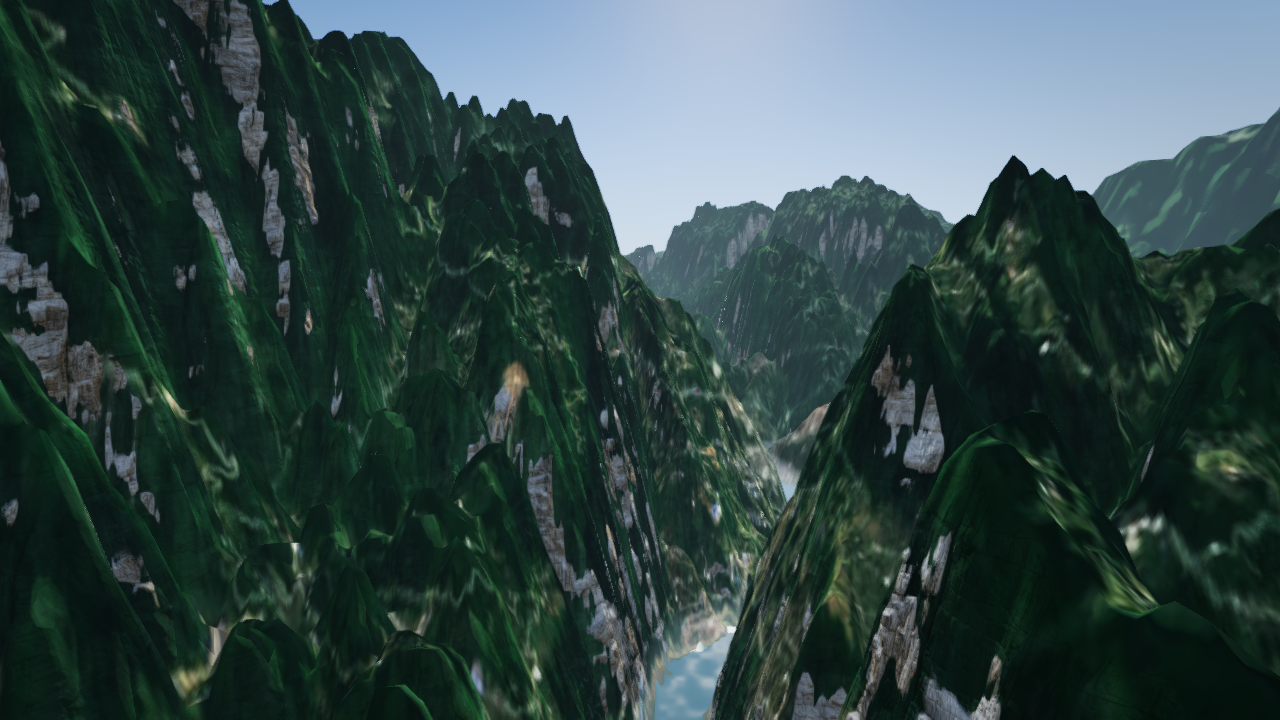
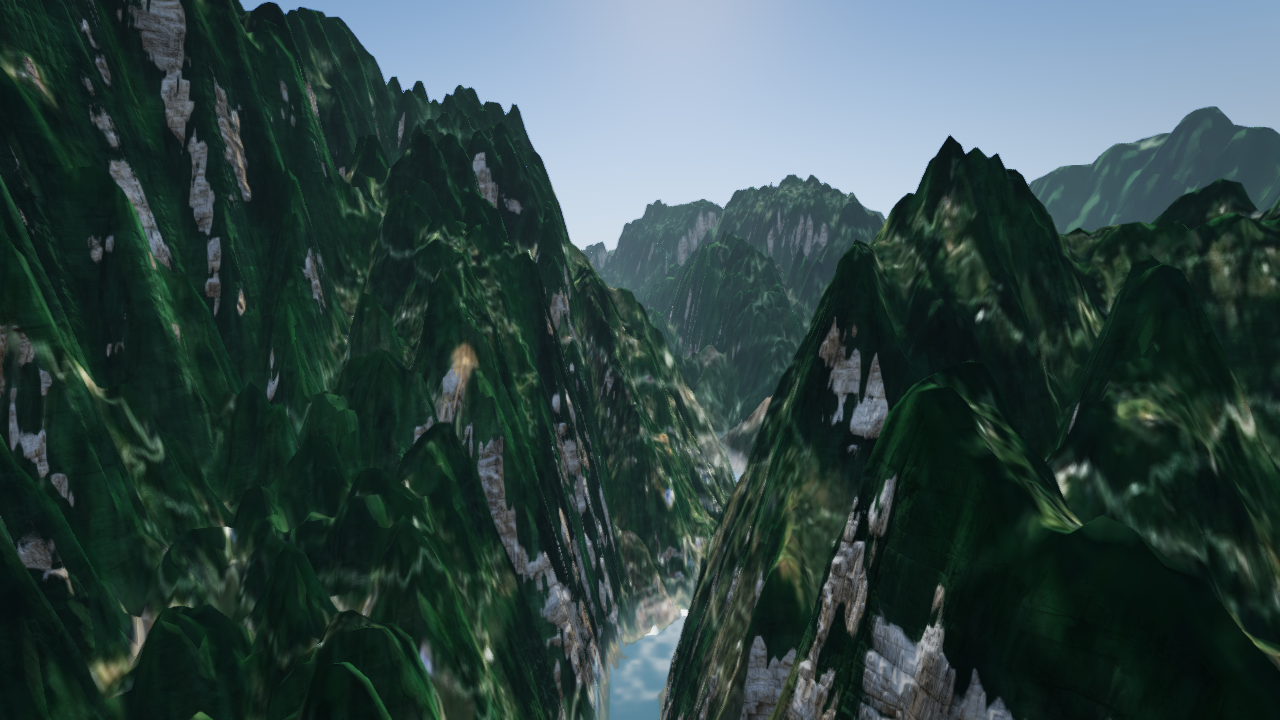
F115: the film watched as a viewer: the rail's corners turned, a chapter played again from its start
- the rail is straight lines between keys and the camera faced along the
  one it was on, so every key swung the picture through its whole corner
  in one frame (74° over Huangshan at 50 s, 81° in the Gorges, 104° into
  Tiger Leaping Gorge); railAtKm now takes the heading from the rail's
  chord over TURN_S = 5 s of authored flight, the camera staying on the
  line; no frame turns more than 0.49°
- a chapter asked for again while on screen (its segment, its number, the
  end card) restarted the clock but not the flight: goToChapter starts the
  scene again, and Watch again and __ns.jumpTo go through it
- stations and rails report cut again; the Gorges and Loess stills (60 s,
  a moved heading) taken again and the cover redrawn
- 3 tests in test/film/rail.test.ts; 523 pass, film ok

diff --git a/test/film/rail.test.ts b/test/film/rail.test.ts
@@ -6,7 +6,7 @@
 import { describe, expect, it } from "vitest";
 import { DEFAULT_RAIL, RailFlight } from "../../engine/src/film/rail.js";
 import { pathFrom } from "../../engine/src/film/path.js";
-import type { BuiltRail } from "../../engine/src/film/scene.js";
+import { TURN_S, railAtKm, type BuiltRail } from "../../engine/src/film/scene.js";
 
 /** 100 km due east at 60 km/min, which is a kilometre a second. */
 function eastward(): BuiltRail {
@@ -17,7 +17,47 @@ function eastward(): BuiltRail {
   return { path: pathFrom(keys), keys };
 }
 
+/** 50 km east, then 50 km north, at 60 km/min: a right angle at the 50th second. */
+function corner(): BuiltRail {
+  const keys = [
+    { eastM: 0, northM: 0, aboveGroundM: 300, kmPerMin: 60, pitchDeg: 6 },
+    { eastM: 50_000, northM: 0, aboveGroundM: 300, kmPerMin: 60, pitchDeg: 6 },
+    { eastM: 50_000, northM: 50_000, aboveGroundM: 300, kmPerMin: 60, pitchDeg: 6 },
+  ];
+  return { path: pathFrom(keys), keys };
+}
+
 const idle = { speed: 0, heading: 0, auto: false };
+
+describe("the rail's heading", () => {
+  it("is the line's own on a straight", () => {
+    const rail = corner();
+    expect(railAtKm(rail, 0).headingRad).toBeCloseTo(Math.PI / 2, 9);
+    expect(railAtKm(rail, 50 - TURN_S / 2 - 0.1).headingRad).toBeCloseTo(Math.PI / 2, 9);
+    expect(railAtKm(rail, 50 + TURN_S / 2 + 0.1).headingRad).toBeCloseTo(0, 9);
+    expect(railAtKm(rail, 100).headingRad).toBeCloseTo(0, 9);
+  });
+
+  it("turns through a corner over the turn's seconds, never in one frame", () => {
+    const rail = corner();
+    // Halfway round at the key itself.
+    expect(railAtKm(rail, 50).headingRad).toBeCloseTo(Math.PI / 4, 9);
+    // A frame at 60 fps is 1/60 km here; no frame turns more than a degree.
+    let before = railAtKm(rail, 40).headingRad;
+    for (let km = 40; km <= 60; km += 1 / 60) {
+      const h = railAtKm(rail, km).headingRad;
+      expect(Math.abs(h - before)).toBeLessThan(Math.PI / 180);
+      before = h;
+    }
+  });
+
+  it("keeps the camera on the line: only the heading turns", () => {
+    const rail = corner();
+    const at = railAtKm(rail, 49.5);
+    expect(at.eastM).toBeCloseTo(49_500, 6);
+    expect(at.northM).toBeCloseTo(0, 6);
+  });
+});
 
 function run(flight: RailFlight, input: typeof idle, seconds: number, step = 1 / 60) {
   let state = flight.state();

diff --git a/engine/src/film/scene.ts b/engine/src/film/scene.ts
@@ -189,14 +189,52 @@ export interface RailFix {
   readonly pitchDeg: number;
 }
 
+/**
+ * Seconds of flight at the authored speed that a key's corner is turned
+ * through, half before the key and half after. The rail is straight lines
+ * between its keys, and a heading taken from the line it is on turned the
+ * camera through a whole corner in one frame: 74 degrees over Huangshan's
+ * cloud sea, 104 into Tiger Leaping Gorge.
+ */
+export const TURN_S = 5;
+
+/** Where the rail is `seconds` of authored flight on from `km`, or back when negative; held to its ends. */
+function kmAfter(rail: BuiltRail, km: number, seconds: number): number {
+  const { cumM } = rail.path;
+  const last = cumM.length - 1;
+  if (last < 1) return 0;
+  let m = Math.max(0, Math.min(km * 1000, cumM[last]!));
+  let i = 0;
+  while (i + 1 < last && m > cumM[i + 1]!) i++;
+  let left = Math.abs(seconds);
+  while (left > 0) {
+    const ms = ((rail.keys[i]?.kmPerMin ?? 0) * 1000) / 60;
+    if (ms <= 0) break;
+    const room = seconds > 0 ? cumM[i + 1]! - m : m - cumM[i]!;
+    const go = Math.min(room, left * ms);
+    m += seconds > 0 ? go : -go;
+    left -= go / ms;
+    if (left <= 1e-9) break;
+    if (seconds > 0 ? i + 1 >= last : i <= 0) break;
+    i += seconds > 0 ? 1 : -1;
+  }
+  return m / 1000;
+}
+
 export function railAtKm(rail: BuiltRail, km: number): RailFix {
   const at = pointAtKm(rail.path, km);
   const a = rail.keys[at.segment] ?? rail.keys[0]!;
   const b = rail.keys[at.segment + 1] ?? a;
+  // The heading is the rail's chord across the turn, from half of it
+  // behind to half ahead: the line's own on a straight, and through a
+  // corner a turn that begins before the key and ends after it.
+  const from = pointAtKm(rail.path, kmAfter(rail, km, -TURN_S / 2));
+  const to = pointAtKm(rail.path, kmAfter(rail, km, TURN_S / 2));
+  const chord = Math.hypot(to.eastM - from.eastM, to.northM - from.northM) > 1;
   return {
     eastM: at.eastM,
     northM: at.northM,
-    headingRad: at.headingRad,
+    headingRad: chord ? Math.atan2(to.eastM - from.eastM, to.northM - from.northM) : at.headingRad,
     aboveGroundM: a.aboveGroundM + at.t * (b.aboveGroundM - a.aboveGroundM),
     kmPerMin: a.kmPerMin,
     pitchDeg: a.pitchDeg + at.t * (b.pitchDeg - a.pitchDeg),

diff --git a/app/src/main.ts b/app/src/main.ts
@@ -391,11 +391,23 @@ let flight: RailFlight | null = null;
 const altitude = new AltitudeController();
 let lastState: RailState | null = null;
 
+/**
+ * Chapter `i` from its lead-in. The chapter already on screen starts over
+ * as well: the frame only starts a scene when the clock crosses into
+ * another, so without this its camera flew on from wherever it had got to
+ * (the end card's last chapter, say) under a clock back at nought.
+ */
+function goToChapter(i: number): TimelinePosition {
+  pinned = null;
+  const pos = timeline.jumpTo(i);
+  if (pos.scene === current) startScene(pos.scene);
+  return pos;
+}
+
 /** Go to chapter `i`, from its lead-in, and play. */
 function playChapter(i: number): void {
-  timeline.jumpTo(i);
+  goToChapter(i);
   timeline.paused = false;
-  pinned = null;
 }
 
 const chapters = el("chapters");
@@ -432,10 +444,7 @@ function togglePlay(): void {
   pinned = null;
 }
 el("play").addEventListener("click", togglePlay);
-el("again").addEventListener("click", () => {
-  timeline.restart();
-  timeline.paused = false;
-});
+el("again").addEventListener("click", () => playChapter(0));
 // A browser starts sound only for something the viewer does.
 for (const type of ["pointerdown", "keydown"] as const) addEventListener(type, () => soundTrack.wake());
 function toggleMute(): void {
@@ -1006,10 +1015,7 @@ if (import.meta.env.DEV) {
     state: () => lastState,
     pinned: () => pinned,
     altitude,
-    jumpTo: (i: number) => {
-      pinned = null;
-      return timeline.jumpTo(i);
-    },
+    jumpTo: goToChapter,
     rig,
     /**
      * Place the camera by hand for a still: latitude, longitude, metres

diff --git a/docs/findings.md b/docs/findings.md
@@ -3196,3 +3196,91 @@ architecture.
 
 The helper that fitted the heads checked each one turns about its pivot
 with +z as its rest forward.
+
+## F115 — The film watched as a viewer: the rail's corners turned, a chapter played again from its start, 27 September 2026
+
+**Asked.** Use the film in the browser as a viewer would, and watch for
+defects and bugs.
+
+**How it was watched.** The dev server in the desktop app's browser pane,
+1027 × 774. The whole film end to end with the cast on (seed 2357475547),
+the end card, the credits page, the keys, the chapter bar, the address's
+chapters, a phone held upright and on its side (375 × 812, 740 × 360,
+touch). An in-page logger read the clock, the caption, the cast's line,
+the camera's heading and its height over the ground, and every figure's
+place in the picture, five to ten times a second; a second one read a
+single figure every frame.
+
+**Fixed.**
+
+- *The rail turned its corners in one frame.* A rail is straight lines
+  between its keys, and the camera's heading was the heading of the line
+  it was on, so at every key the picture swung through the whole corner
+  between two frames: 74° over Huangshan's cloud sea at 50.2 s (the empty
+  sea, then the sun and a new range of peaks), 81° in the Three Gorges at
+  14.3 s, 104° into Tiger Leaping Gorge at 81.3 s, 42° over the Karst at
+  77.1 s, and 30 corners of 5° or more in the Loess's first two minutes.
+  Found by the cast: Guanyin, held in the picture through her line, slid
+  out of it and back in 0.4 s, because the camera had turned 42° in a
+  frame and the cast's frame follows it 0.8 s late. `railAtKm` now takes
+  the heading from the rail's chord across `TURN_S` = 5 s of authored
+  flight, half behind and half ahead: the line's own heading on a straight,
+  and through a corner a turn that starts 2.5 s before the key and ends
+  2.5 s after. The camera stays on the line; only where it looks turns.
+  Flown at 60 fps, no frame now turns more than 0.49° (the First Bend and
+  the Loess) and no second more than 29°; 4 s turned the First Bend's
+  corner at 36° a second, 6 s left the Loess looking more than 15° off
+  its line for 16 s. The rails report is no worse for it: ground ahead at
+  Huangshan 2 → 1% (worst 161 → 143 m), the Gorges' worst 275 → 228 m,
+  the First Bend's 10 → 0 m. The stations were cut again: at 60 s
+  Huangshan's heading moved 12.7°, the Loess's 6.1°, the Gorges' 4.6°.
+  The two stills taken at a moved heading were taken again (`npm run
+  stills three-gorges loess`, then `npm run cover`): the Gorges pans a
+  few degrees left, and the Loess about six and some 60 m higher, since
+  the altitude controller looks ahead along the new heading, so its dust
+  reads a little thicker. The Huangshan still (20 s) moves 0.6° and its
+  card (8 s) 0.9°, and are left.
+- *A chapter played again flew on from where it was.* The frame starts a
+  scene only when the clock crosses into another, so the chapter already
+  on screen, asked for again by its segment, its number or the end card's
+  list, got its title card back and a clock at nought while the camera
+  flew on: pressed at 48 s into Huangshan it was at km 72 of 89; the Wall
+  chosen from the end card came back on the Nepal side, km 168 of 272,
+  lost its `#the-wall`, and the cast of the second it left stood over the
+  title card. `goToChapter` starts the scene again when it is the one on
+  screen; the chapter keys, the bar, the end card, Watch again and
+  `__ns.jumpTo` all go through it.
+
+**Seen and left.**
+
+- The credits page says both "No sound is licensed yet" and, from
+  `NOTICE.md`'s *Music and sound*, "Nine cues, one a scene, and a bed of
+  wind, each licensed or commissioned". The notice is written for the
+  launch; until the sound comes it contradicts the page above it.
+- The cast's lines, warm italic over a halo, are faint on pale ground:
+  the Loess's haze, the Taklamakan, the Roof's tan, the Wall's snow. The
+  captions hold up better. The keys' labels at the top left are grey on a
+  pale sky.
+- Speed changes at a key in one frame, as the heading did: the Grassland
+  550 → 300 → 140 → 60 → 30 → 25 km/min from 78.6 to 109.3 s, the Wall
+  150 → 60 → 40 → 50. These are authored slowings; easing them would move
+  every caption, line and cue timed at the authored speed.
+- One of the kings' risings in this viewing was behind the camera the
+  whole time (the one in six D93 lets go by).
+- `__ns.hold` twice leaves the clock at the lead-in (its `advance` is
+  ignored once the first hold has paused it). The held frame is right;
+  P after it plays the scene from its title. Dev only.
+- Checked and sound: every title card (one that looked missing was a
+  screenshot taken late), Heaven Lake in the frame from 108 s, every cast
+  line with its figure in the picture, the scatter before the South King,
+  the portrait prompt, the landscape phone card beside its map, the touch
+  buttons, the address's chapters, the credits page's way back.
+
+**Checked.** `npm run check`: 523 tests, three new in
+`test/film/rail.test.ts` (the heading is the line's own on a straight,
+turns through a corner with no frame over a degree and halfway round at
+the key, and the camera stays on the line). Played again in the pane: the
+Gorges' first 20 s turn −25° → −75° → −25° → −103° with no frame over
+half a degree; Huangshan pressed again at 21 s starts at km 0 and is at
+km 1.10 three seconds into the flight (1.10 by the clock); the Wall from
+the end card starts at km 0 under `#the-wall`.

diff --git a/docs/rails-report.md b/docs/rails-report.md
@@ -8,12 +8,12 @@ The flight is 114 s; a viewer at double speed needs twice that of rail.
 
 | Scene | Rail | At authored speed | Over hero grid | Off world | Above ground | Altitude | Ground ahead | Worst ahead | At floor | At ceiling |
 | --- | ---: | ---: | ---: | ---: | ---: | ---: | ---: | ---: | ---: | ---: |
-| huangshan | 89 km | 242 s | 100 % | 0 | 150–1383 m | 971–2289 m | 2 % | 161 m | 2 % | 0 % |
-| three-gorges | 576 km | 384 s | 25 % | 0 | 120–900 m | 460–1691 m | 1 % | 275 m | 0 % | 0 % |
-| karst | 139 km | 234 s | 52 % | 0 | 151–800 m | 368–1009 m | 0 % | 0 m | 0 % | 0 % |
-| first-bend | 199 km | 239 s | 47 % | 0 | 760–1600 m | 3141–4717 m | 0 % | 10 m | 0 % | 11 % |
-| loess | 714 km | 238 s | 0 % | 0 | 547–807 m | 935–1767 m | 0 % | 0 m | 0 % | 0 % |
-| grassland-to-heaven-lake | 915 km | 389 s | 15 % | 0 | 300–972 m | 618–2954 m | 0 % | 0 m | 0 % | 0 % |
-| below-the-sea | 1168 km | 234 s | 5 % | 0 | 306–2500 m | 508–7007 m | 0 % | 0 m | 0 % | 1 % |
-| the-roof | 1417 km | 236 s | 0 % | 0 | 500–2169 m | 4402–6832 m | 0 % | 0 m | 0 % | 0 % |
-| the-wall | 272 km | 241 s | 16 % | 0 | 820–3000 m | 1870–9936 m | 0 % | 0 m | 0 % | 0 % |
+| huangshan | 89 km | 242 s | 100 % | 0 | 150–1381 m | 972–2309 m | 1 % | 143 m | 2 % | 0 % |
+| three-gorges | 576 km | 384 s | 25 % | 0 | 120–900 m | 456–1691 m | 1 % | 228 m | 0 % | 1 % |
+| karst | 139 km | 234 s | 52 % | 0 | 149–800 m | 368–1007 m | 0 % | 0 m | 0 % | 0 % |
+| first-bend | 199 km | 239 s | 47 % | 0 | 773–1600 m | 3122–4723 m | 0 % | 0 m | 0 % | 9 % |
+| loess | 714 km | 238 s | 0 % | 0 | 533–796 m | 934–1748 m | 0 % | 0 m | 0 % | 0 % |
+| grassland-to-heaven-lake | 915 km | 389 s | 15 % | 0 | 300–963 m | 618–2953 m | 0 % | 0 m | 0 % | 0 % |
+| below-the-sea | 1168 km | 234 s | 5 % | 0 | 308–2500 m | 517–7007 m | 0 % | 0 m | 0 % | 1 % |
+| the-roof | 1417 km | 236 s | 0 % | 0 | 500–2169 m | 4402–6834 m | 0 % | 0 m | 0 % | 0 % |
+| the-wall | 272 km | 241 s | 16 % | 0 | 820–3000 m | 1870–9904 m | 0 % | 0 m | 0 % | 0 % |
